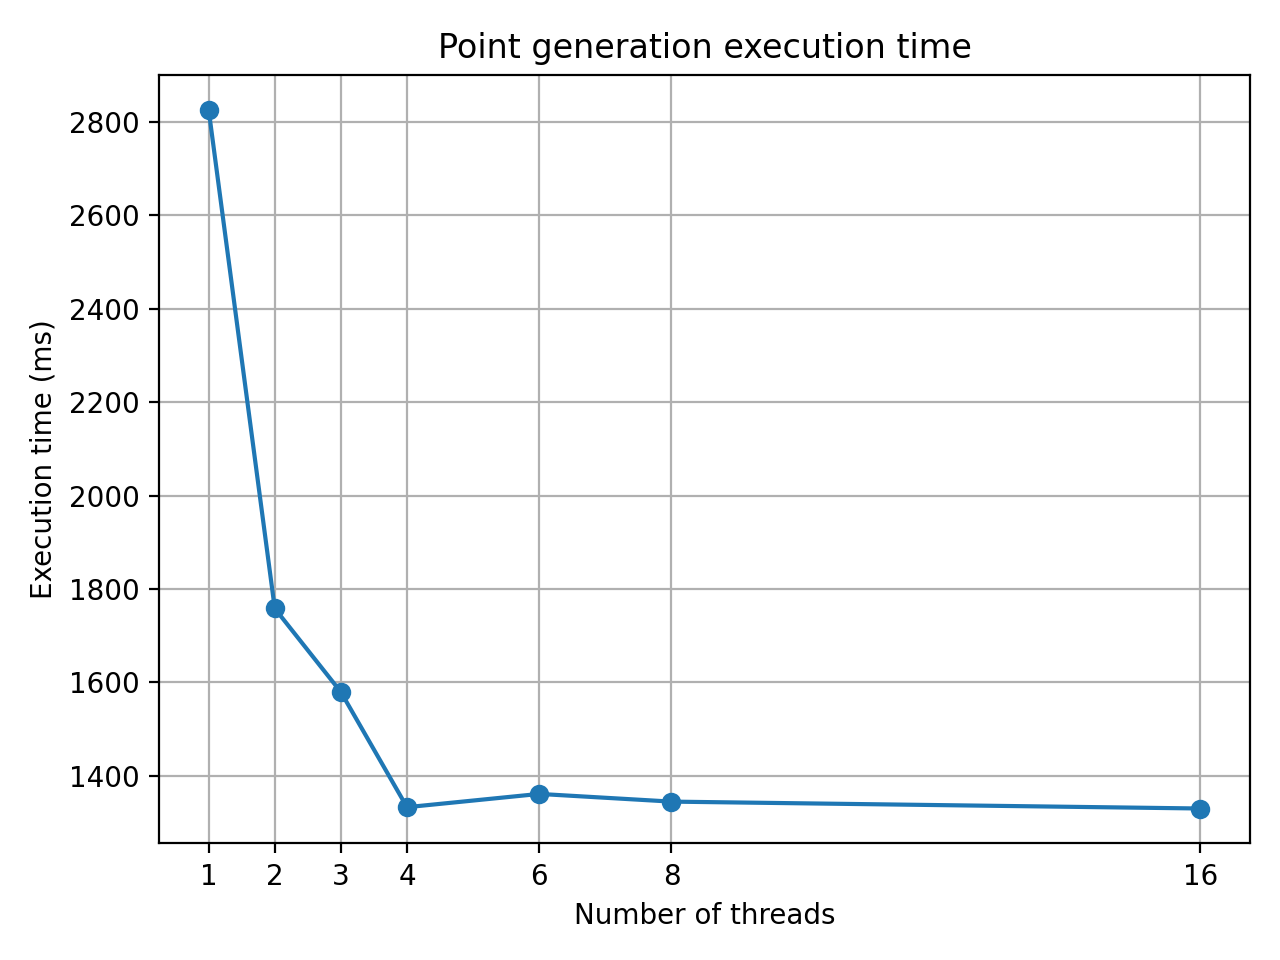
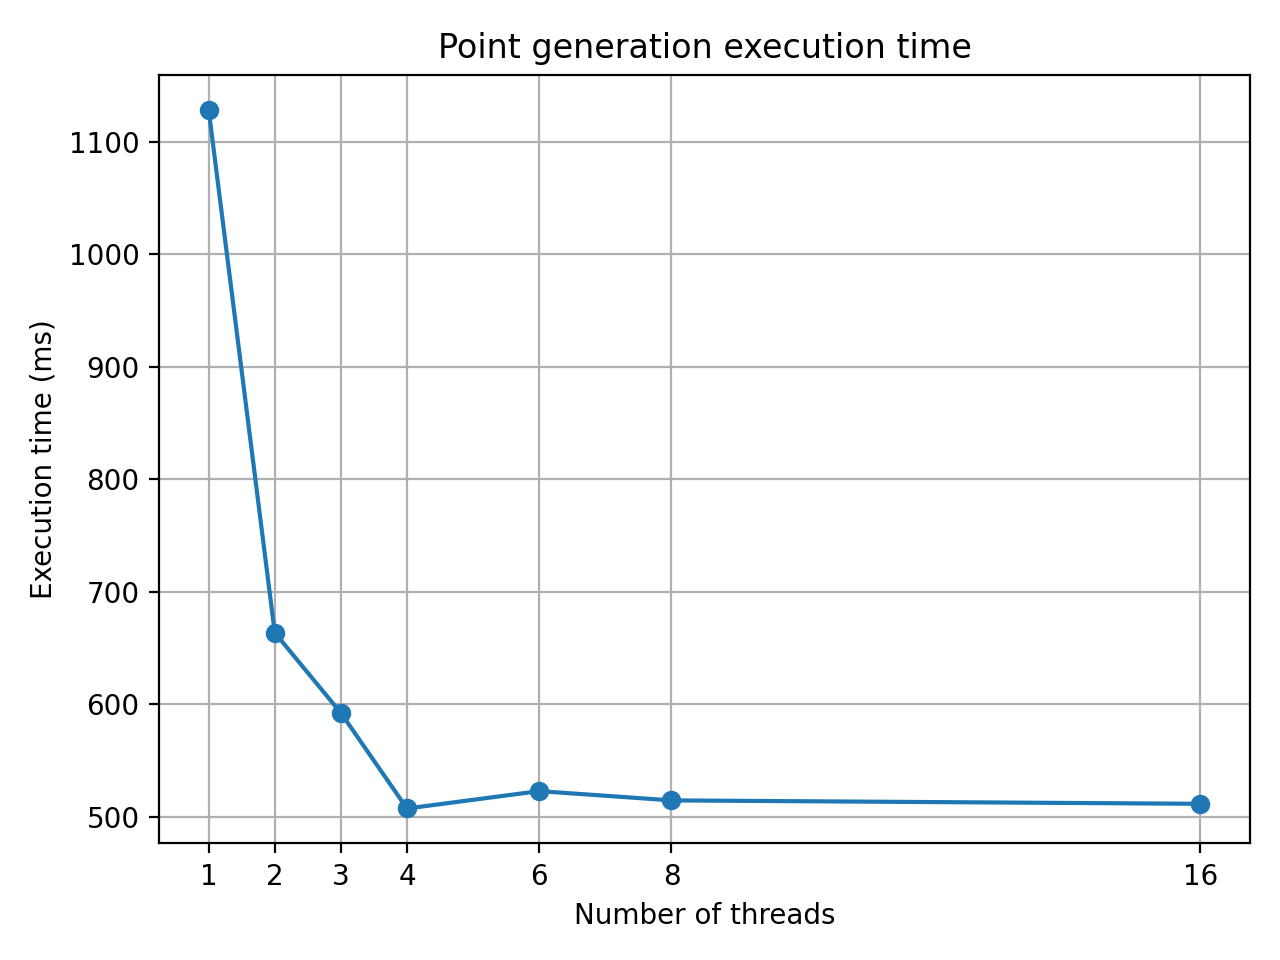
finished benchmarking

diff --git a/scripts/benchmark.py b/scripts/benchmark.py
@@ -21,10 +21,10 @@ RESULTS_DIR = Path("benchmark")
 RESULTS_FILE = RESULTS_DIR / "benchmark_results.csv"
 
 THREAD_COUNTS = [1, 2, 3, 4, 6, 8, 16]
-NUM_RUNS = 200
-PAUSE_SECONDS = 0.25
+NUM_RUNS = 20
+PAUSE_SECONDS = 0
 
-NUM_POINTS = 5000000
+NUM_POINTS = 10000000
 
 CENTER_X = 0.0
 CENTER_Y = 0.0
@@ -93,7 +93,9 @@ def benchmark(num_threads: int, pause_seconds: float = PAUSE_SECONDS) -> list[fl
     times = []
 
     for run in range(1, NUM_RUNS + 1):
-        # time.sleep(pause_seconds)
+        if pause_seconds > 0:
+            print(f"  ...cooling for {pause_seconds} seconds...")
+            time.sleep(pause_seconds)
         elapsed_ms = run_program(input_file)
         times.append(elapsed_ms)
 

diff --git a/README.md b/README.md
@@ -32,7 +32,7 @@ The direction is uniformly distributed over the surface of a sphere, ensuring th
 ### Edge cases
 
 * `R_dev = 0`: points uniformly distributed on the surface of a sphere with radius `R_mean`
-* `R_mean = 0`: points are clustered around the center
+* `R_mean = 0`: points are distributed around the center according to the specified radial standard deviation
 * `R_mean = 0` and `R_dev = 0` simultaneously is not allowed
 ![Point cloud visualization](images/no_std.png)
 
@@ -62,7 +62,7 @@ The program reads the parameters of the simulation from an input file, which sho
 | `number of points`    | Number of points to generate                 |
 | `center x-coordinate` | x coordinate of the center                   |
 | `center y-coordinate` | y coordinate of the center                   |
-| `center z-cooridnate` | z coordinate of the center                   |
+| `center z-coordinate` | z coordinate of the center                   |
 | `radius mean value`   | Mean radial distance                         |
 | `standard deviation`  | Standard deviation of the radial distance    |
 
@@ -82,11 +82,14 @@ center x-coordinate: 0.0
 center y-coordinate: 0.0 
 center z-coordinate: 0.0 
 
-radius mean value:  4.0 
-standard deviation: 0.4
+radius mean value:  1.0 
+standard deviation: 0.15
 ```
 
-The program creates 10000 points uniformly distributed on a sphere of radius 4 centered at the origin and standard deviation 0.4, using a single thread. The output is written in `res/default.csv`, using the following format:
+The program generates 10,000 points centered around the origin. Their radial distances follow a normal distribution with a mean of 1.0 and a standard deviation of 0.15. 
+The directions are uniformly distributed over the sphere, using a single thread.
+
+The output is written in `res/default.csv`, using the following format:
 
 ```text
 <x_1>, <y_1>, <z_1>
@@ -121,15 +124,45 @@ make debug
 Point generation is parallelized using the C++ Standard Library threading facilities.
 
 The workload is divided between the requested number of threads, with each thread responsible for generating its own portion of the point cloud.
-
 Random-number generation is kept thread-local to avoid unnecessary synchronization between worker threads.
+This design allows the computational workload to scale across multiple CPU cores while avoiding a shared random-number generator.
 
-This design allows the computational workload to scale across multiple CPU cores while avoiding a shared random-number generator..
+The point-generation stage is timed independently in order to measure how it scales with the increasing number of threads.
 
-## Performance
+## Benchmarking
 
-The point-generation stage is timed independently in order to measure the computational part of the program. Benchmarking is performed by keeping the problem size fixed and increasing the number of threads.
+Benchmarking is performed by keeping the problem size fixed and increasing the number of threads.
+The procedure is automated using a Python script that:
 
+* generates benchmark input files for different thread counts;
+* executes the C++ program repeatedly;
+* extracts the measured execution time;
+* computes median execution times and speedups;
+* generates the execution-time and speedup plots.
+
+To run the benchmark:
+
+```bash
+python3 scripts/benchmark.py
+```
+
+Results are written in `benchmark` directory.
+
+### Benchmark configuration
+
+* CPU: Intel Core i7-7Y75 (2 physical cores, 4 logical CPUs)
+* Operating system: Ubuntu 22.04.5 LTS
+* Compiler: GCC
+* Compiler version: 11.4.0
+* Build type: Release
+* Compiler flags: `-O3 -DNDEBUG -march=native -pthread`
+* Number of generated points: 10,000,000
+* 20 runs per thread configuration
+* Reported values are medians
+
+### Benchmark results
+
+The figures below show the influence of the number of threads on the execution time and the speedup.
 For a given number of threads `N`, speedup is measured relative to the single-threaded execution:
 
 ```text
@@ -138,41 +171,15 @@ Speedup(N) = T(1) / T(N)
 
 where `T(N)` is the point-generation execution time using `N` threads.
 
-## Benchmarking
-
-Benchmarking is automated using a Python script that:
-
-* generates benchmark input files for different thread counts;
-* executes the C++ program repeatedly;
-* extracts the measured execution time;
-* computes median execution times and speedups;
-* generates the execution-time and speedup plots.
-
-The benchmark scripts are intended as measurement tooling; the point-generation implementation itself is entirely C++.
-
-To run the benchmark:
-
-```bash
-python3 scripts/benchmark.py
-```
-
-Results will be available in `benchmark` directory.
-
-## Benchmark results
-
 <img src="benchmark/execution_time.png" alt="Execution time" width="600">
 
 <img src="benchmark/speedup.png" alt="Speedup" width="600">
 
-Benchmark configuration:
+The results show a clear improvement as the number of threads increases up to 4 threads, followed by a performance plateau. 
+The processor provides 2 physical cores and 4 logical CPUs, so increasing the number of software threads beyond 4 results in oversubscription rather than additional logical CPUs.
 
-* CPU: Intel Core i7-7Y75 (2 physical cores, 4 logical CPUs)
-* Compiler: GCC
-* Compiler version: 11.4.0
-* Build type: Release
-* Compiler flags: -O3 -DNDEBUG -march=native -pthread
-* Number of generated points: 5,000,000
-* Operating system: Ubuntu 22.04.5 LTS
+The benchmark protocol included a cooldown period between runs to reduce the impact of CPU thermal and frequency variations. 
+This was found to be important on this low-power mobile processor and resulted in substantially more reproducible measurements.
 
 ## Design Considerations
 
